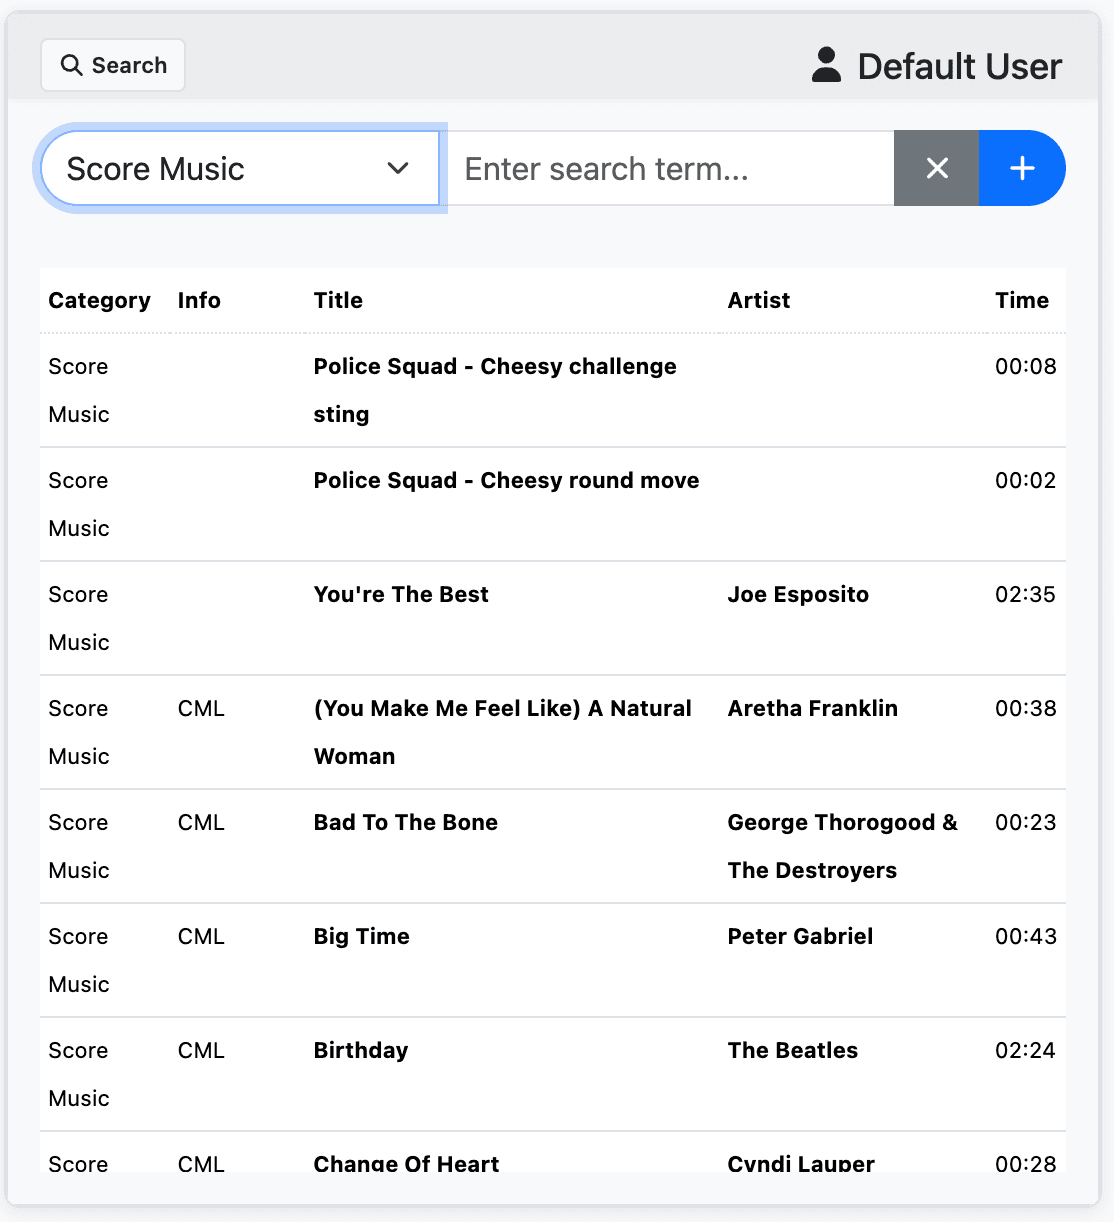
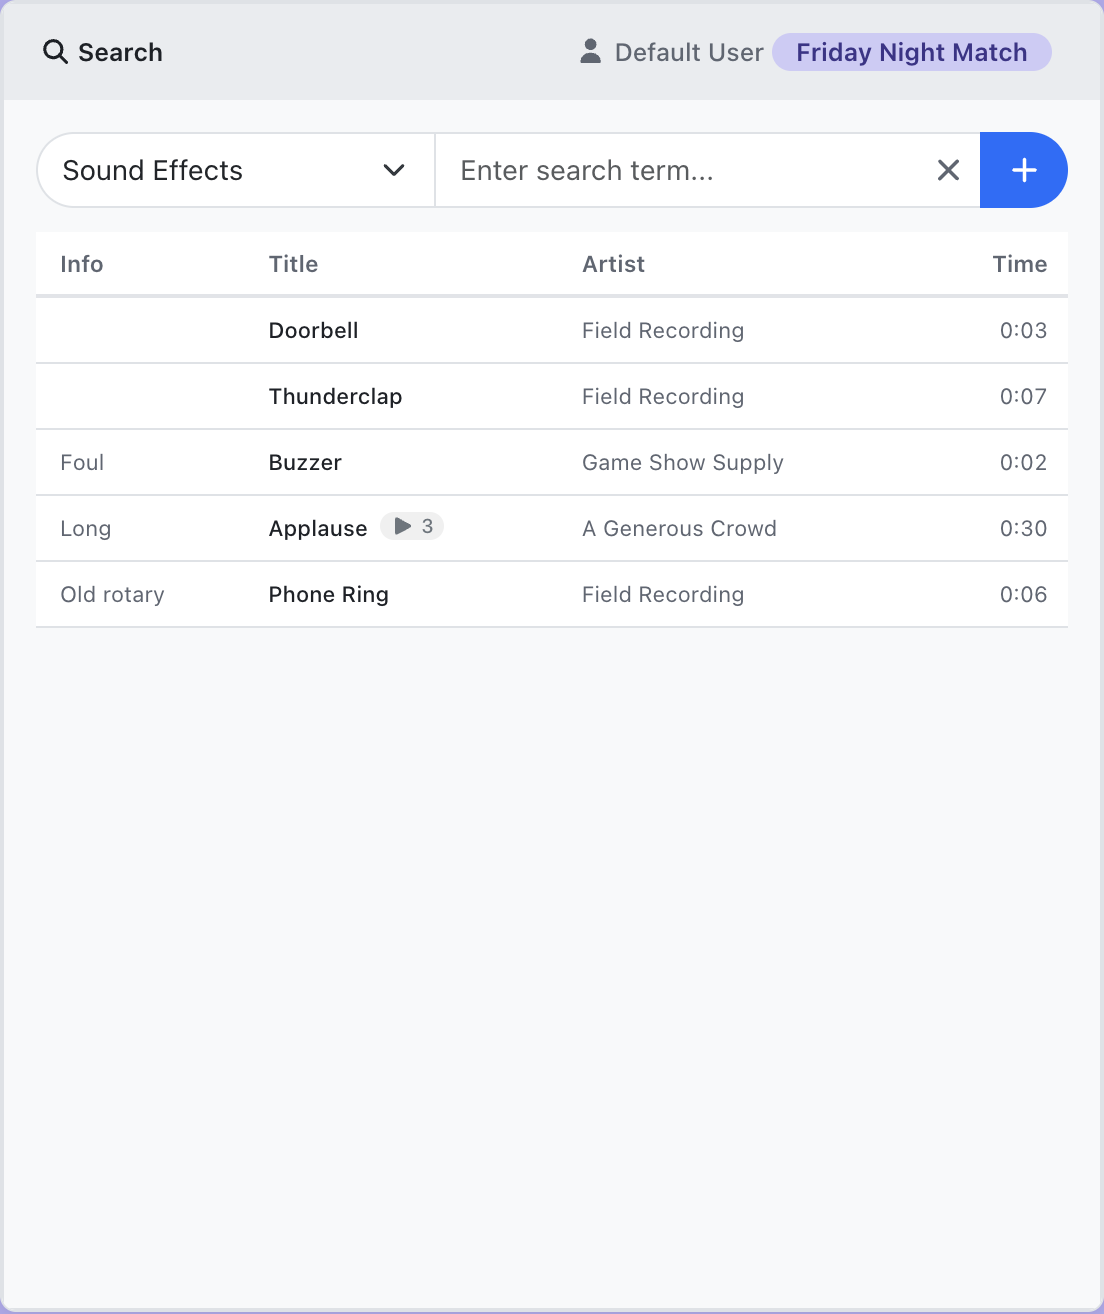
Regenerate screenshots for Mx. Voice 4.4
Replace the docs and homepage images with captures from the app's new
`npm run screenshots`, and add images for the show header, unsaved dot,
tab actions menu, song menu, Import Show, the crash restore prompt and
the in-app Switch Profile dialog.

Docs images are now sized at half their pixel width, since the captures
are 2x. Correct the launcher button names in Profiles and Getting
Started.

diff --git a/src/pages/docs/shows.md b/src/pages/docs/shows.md
@@ -2,6 +2,7 @@
 title: Shows
 subtitle: Save hotkey and holding tank layouts, and switch between them
 layout: ../../layouts/Docs.astro
+image: /docs/import-show.png
 ---
 
 ## Overview
@@ -9,6 +10,8 @@ layout: ../../layouts/Docs.astro
 Starting in version 4.4, your hotkeys and holding tank are kept as a **show**. A show is a saved layout: every hotkey tab, every holding tank tab, and the tab names. Each profile can have as many shows as you like — one per venue, team, or format — and you switch between them from the **Shows** menu.
 
 The header at the top of the window shows your profile and the show that's loaded.
+
+<img src="/docs/show-header.png" alt="Header showing the profile and the loaded show" width="548" />
 
 ## Upgrading from an Earlier Version
 
@@ -28,6 +31,8 @@ Changes you make to the hotkeys and holding tank stay on screen until you save o
 
 A **dot** after the show name in the header means the layout on screen has unsaved changes.
 
+<img src="/docs/show-unsaved.png" alt="Show name followed by the unsaved-changes dot" width="548" />
+
 Quitting or switching profiles doesn't save the show. Next time, it opens as you last saved it. This means you can rearrange things freely during a performance and start the next one from your prepared layout.
 
 ## Switching Shows
@@ -46,9 +51,13 @@ These act on the show that's loaded. To change a different show, switch to it fi
 
 **Shows → Import Show from Another Profile…** copies a saved show from another profile on this computer. The copy is yours to change — the original is not affected. If you have unsaved changes, Mx. Voice asks whether to save them first.
 
+<img src="/docs/import-show.png" alt="Import Show from Another Profile" width="460" />
+
 ## Tab Files
 
 A show holds all of your tabs. To keep or share a single tab — a pre-show playlist, or a standard set of drops — save it as a tab file. Open the **⋯** menu at the end of a tab row, or right-click a tab:
+
+<img src="/docs/tab-actions-menu.png" alt="Tab actions menu" width="320" />
 
 - **Save Tab to File…** — Saves that one tab to a file.
 - **Load Tab from File…** — Loads a file into that tab. If the tab already has songs, Mx. Voice asks first.
@@ -64,11 +73,15 @@ A **▶ count** appears next to every track you've played tonight, in the hotkey
 - **Clear one** — Right-click a song and choose **Mark as Unplayed**.
 - **Clear all** — Choose **Shows → Mark All Songs as Unplayed**.
 
+<img src="/docs/song-context-menu.png" alt="Played count and the Mark as Unplayed menu item" width="305" />
+
 Counts are for the current session only. They start fresh each time the profile opens, carry over when you switch shows, and come back after a crash restore.
 
 ## Crash Recovery
 
 If Mx. Voice doesn't close normally, the next launch asks whether to restore the show in progress.
+
+<img src="/docs/restore-show.png" alt="Restore show prompt" width="500" />
 
 - **Restore show in progress** (or press **Return**) — Brings back the layout and played counts from when the app stopped.
 - **Open saved show** — Opens the show as you last saved it. The show in progress is kept aside rather than deleted.

diff --git a/src/pages/docs/profiles.md b/src/pages/docs/profiles.md
@@ -13,9 +13,9 @@ If you just want different layouts for different venues, teams, or formats, you 
 
 ## The Profile Launcher
 
-When you start Mx. Voice, the Profile Launcher appears. It shows a list of all available profiles. Select one and click **Choose Profile**, or double-click a profile to launch it directly.
+When you start Mx. Voice, the Profile Launcher appears. It shows a list of all available profiles. Select one and click **Open**, or double-click a profile to open it directly.
 
-![Profile Launcher](/docs/profile-launcher.png)
+<img src="/docs/profile-launcher.png" alt="Profile Launcher" width="420" />
 
 You can search for profiles by name or description using the search field in the launcher.
 
@@ -25,18 +25,20 @@ On first launch, a **Default User** profile is created automatically. It appears
 
 ## Creating a Profile
 
-1. Click **+ New Profile** in the launcher header.
+1. Click **New profile** in the launcher, or choose **Profile → New Profile…** in the menu bar.
 2. Enter a **Profile Name** (required, up to 50 characters). Letters, numbers, spaces, hyphens, and underscores are allowed.
 3. Optionally enter a **Description** (e.g., "Friday night show at Club XYZ").
-4. Click **Create Profile**.
+4. Click **Create profile**.
 
-![New Profile](/docs/new-profile.png)
+<img src="/docs/new-profile.png" alt="New Profile" width="500" />
 
 New profiles start with default preferences and empty hotkey and holding tank tabs. To bring in a layout from another profile, use **Shows → Import Show from Another Profile…**. Profile names must be unique.
 
 ## Switching Profiles
 
 To switch to a different profile, go to **Profile → Switch Profile…** in the menu bar. The profile list opens right in the window, without restarting the app. Your current profile is grayed out, and **Esc** takes you back.
+
+<img src="/docs/switch-profile.png" alt="Switch Profile" width="500" />
 
 Switching profiles doesn't save the loaded show. If you've made changes you want to keep, use **Shows → Save** first.
 

diff --git a/src/pages/docs/search.md b/src/pages/docs/search.md
@@ -13,15 +13,15 @@ The Search panel occupies the center column of the Mx. Voice window. It's design
 
 The main search field searches across **title**, **artist**, and **info** fields simultaneously. Results appear live after you type 2 or more characters (with a short debounce delay for performance).
 
-![Search Panel](/docs/search-panel.png)
+<img src="/docs/search-panel.png" alt="Search Panel" width="552" />
 
 Search is case-insensitive. Use **Cmd+L** (Mac) or **Ctrl+L** (Windows/Linux) to quickly focus the search field.
 
 ## Category Filtering
 
-The category dropdown at the top of the search panel lets you narrow results to a specific category. Select **"All"** to search across your entire library, or choose a specific category to filter.
+The category dropdown at the top of the search panel lets you narrow results to a specific category. Select **"All Categories"** to search across your entire library, or choose a specific category to filter.
 
-![Category Filtering](/docs/category-select.png)
+<img src="/docs/category-select.png" alt="Category Filtering" width="552" />
 
 The category filter works in combination with the search field — you can filter by category and search by keyword at the same time.
 
@@ -29,7 +29,7 @@ The category filter works in combination with the search field — you can filte
 
 Click the search toggle button to switch to advanced search mode. This provides separate fields for more targeted filtering:
 
-![Advanced Search](/docs/advanced-search.png)
+<img src="/docs/advanced-search.png" alt="Advanced Search" width="552" />
 
 | Field | What It Searches |
 | --- | --- |

diff --git a/src/pages/docs/getting-started.md b/src/pages/docs/getting-started.md
@@ -20,22 +20,22 @@ Once downloaded, install the app the same way you would any other application on
 
 When you first launch Mx. Voice, you'll see the **Profile Launcher**. Profiles let you maintain completely separate setups — each with its own saved shows and preferences — for different performers or teams.
 
-![Profile Launcher](/docs/profile-launcher.png)
+<img src="/docs/profile-launcher.png" alt="Profile Launcher" width="420" />
 
 On your very first launch, a **Default User** profile is created automatically. You can use it right away, or create a new one:
 
-1. Click the **+ New Profile** button in the launcher header.
+1. Click the **New profile** button in the launcher.
 2. Enter a **Profile Name** (letters, numbers, spaces, hyphens, and underscores are allowed).
 3. Optionally add a **Description** (e.g., "Saturday night show at Club XYZ").
-4. Click **Create Profile**.
+4. Click **Create profile**.
 
-Select your profile and click **Choose Profile** to launch the main application. You can switch profiles later from the **Profile** menu.
+Select your profile and click **Open** to launch the main application. You can switch profiles later from the **Profile** menu.
 
 ## Configure Your Preferences
 
 Before importing songs, you'll want to set up a few directories. Open Preferences from the **Mx. Voice** menu on macOS, or the **Edit** menu on Windows and Linux.
 
-![Preferences](/docs/preferences.png)
+<img src="/docs/preferences.png" alt="Preferences" width="800" />
 
 ### Data Locations
 

diff --git a/src/pages/docs/managing-songs.md b/src/pages/docs/managing-songs.md
@@ -19,7 +19,7 @@ Mx. Voice supports the following audio formats:
 
 ## Adding a Single Song
 
-![Add Song](/docs/add-song.png)
+<img src="/docs/add-song.png" alt="Add Song" width="500" />
 
 1. Open the **Add New Song** dialog.
 2. Select an audio file from your computer.
@@ -50,7 +50,7 @@ Mx. Voice scans the directory recursively (including subfolders) and for each au
 
 ## Editing Song Metadata
 
-![Edit Song](/docs/edit-song.png)
+<img src="/docs/edit-song.png" alt="Edit Song" width="500" />
 
 1. Select a song in the search results.
 2. Open the edit dialog (double-click or use the edit action).
@@ -69,7 +69,7 @@ Deleting a song removes it from the database and deletes the audio file from you
 
 ## Managing Categories
 
-![Manage Categories](/docs/manage-categories.png)
+<img src="/docs/manage-categories.png" alt="Manage Categories" width="500" />
 
 Categories help you organize your audio library. Each category has a short code (up to 4 uppercase letters) and a description.
 

diff --git a/src/pages/docs/playback.md b/src/pages/docs/playback.md
@@ -9,7 +9,7 @@ image: /docs/playback-controls.png
 
 The playback controls are at the bottom of the Mx. Voice window. They show the currently playing song, a progress bar with elapsed and remaining time, and buttons for controlling playback.
 
-![Playback Controls](/docs/playback-controls.png)
+<img src="/docs/playback-controls.png" alt="Playback Controls" width="1176" />
 
 ## Play, Pause, and Stop
 
@@ -40,7 +40,7 @@ Click the **loop button** to repeat the current song continuously. When the song
 
 ## Waveform Display
 
-![Waveform Display](/docs/waveform.png)
+<img src="/docs/waveform.png" alt="Waveform Display" width="1176" />
 
 Click the **waveform button** to toggle a visual waveform of the playing audio. The waveform shows the amplitude of the audio and a position indicator that tracks playback progress. You can click on the waveform to seek to a specific position in the song.
 

diff --git a/src/pages/docs/backups.md b/src/pages/docs/backups.md
@@ -27,7 +27,7 @@ Manual backups are useful before making major changes to your hotkey setup or ho
 
 ## Restoring from a Backup
 
-![Restore Backup](/docs/restore-backup.png)
+<img src="/docs/restore-backup.png" alt="Restore Backup" width="800" />
 
 1. Go to **Profile → Restore from Backup...**
 2. A dialog shows all available backups, sorted newest first. Each backup shows:

diff --git a/src/pages/docs/hotkeys.md b/src/pages/docs/hotkeys.md
@@ -11,7 +11,7 @@ The Hotkeys panel is on the right side of the Mx. Voice window. It lets you assi
 
 Your hotkeys are part of the loaded [show](/docs/shows/). Changes are kept only when you save the show with **Shows → Save**.
 
-![Hotkeys panel](/docs/hotkeys-panel.png)
+<img src="/docs/hotkeys-panel.png" alt="Hotkeys panel" width="300" />
 
 ## Assigning Songs to Hotkeys
 

diff --git a/src/pages/docs/holding-tank.md b/src/pages/docs/holding-tank.md
@@ -11,7 +11,7 @@ The Holding Tank is on the left side of the Mx. Voice window. It's a staging are
 
 The holding tank is part of the loaded [show](/docs/shows/). Changes are kept only when you save the show with **Shows → Save**.
 
-![Holding Tank](/docs/holding-tank.png)
+<img src="/docs/holding-tank.png" alt="Holding Tank" width="300" />
 
 ## Storage vs. Playlist Mode
 

diff --git a/src/pages/docs/preferences.md b/src/pages/docs/preferences.md
@@ -12,7 +12,7 @@ Open the Preferences dialog from the **Mx. Voice** menu on macOS or the **Edit**
 - **macOS:** Cmd+, (Command+Comma)
 - **Windows / Linux:** Ctrl+, (Control+Comma)
 
-![Preferences](/docs/preferences.png)
+<img src="/docs/preferences.png" alt="Preferences" width="800" />
 
 ## Data Locations
 
